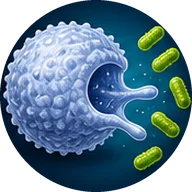
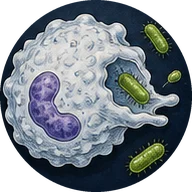
Themapictogrammen: tussenversie (inktlijnen met heldere aquarelkleuren); frisse en klassieke bewaard; knipscript
Claude-Session: https://claude.ai/code/session_01SiyXcNeua6wp9N9nME8PhR

diff --git a/kunst.html b/kunst.html
@@ -40,7 +40,7 @@ a.figlink{display:block;text-decoration:none}
 <div id="lijst"></div>
 <section class="thema">
   <h2>Pictogrammen van de thema's</h2>
-  <p>De ronde medaillons op de hoofdpagina, uitgeknipt uit één vel zodat ze dezelfde stijl hebben (img/kunst/iconen/; Kamiel 21 okt 2026: de eerste, klassieke versie voelde te vergankelijk, dus nu een frissere; de klassieke staat in iconen/klassiek/).</p>
+  <p>De ronde medaillons op de hoofdpagina, uitgeknipt uit één vel zodat ze dezelfde stijl hebben (img/kunst/iconen/; Kamiel 21 okt 2026: de eerste, klassieke versie voelde te vergankelijk, daarna een frisse, glanzende versie (iconen/fris/), en nu een tussenversie: fijne inktlijnen met heldere aquarelkleuren; de klassieke staat in iconen/klassiek/).</p>
   <div id="iconen" style="display:flex;flex-wrap:wrap;gap:14px"></div>
   <p class="lbl">Alle vellen</p><div class="var"></div>
 </section>
@@ -72,7 +72,7 @@ const THEMAS=[
 const fig=(src,cap,cls='',alt='')=>`<a class="figlink" href="${src}"><figure class="${cls}"><img src="${src}" alt="${alt}" loading="lazy"><figcaption>${cap}</figcaption></figure></a>`;
 const ICONEN=['cellen','dna','stofwisseling','voeding','transport','gaswisseling','afweer','regeling','voortplanting','erfelijkheid','evolutie','gedrag','planten','ecologie','milieu','examens'];
 document.getElementById('iconen').innerHTML=ICONEN.map(i=>`<figure style="width:96px;background:none;border:0;text-align:center"><img src="img/kunst/iconen/${i}.webp" alt="Pictogram ${i}" style="width:80px;height:80px;aspect-ratio:1;border-radius:999px;margin:0 auto;border:1px solid var(--goud)"><figcaption style="padding:4px 0 0">${i}</figcaption></figure>`).join('');
-document.querySelector('#iconen').parentElement.querySelector('.var').innerHTML=[1,2,3,4].map(k=>fig(`img/kunst/varianten/iconen-fris-${k}.webp`,`Fris vel ${k}${k===3?' · gebruikt':''}`,k===3?'gekozen':'',`Pictogramvel fris ${k}`)).join('')+[1,2,3,4].map(k=>fig(`img/kunst/varianten/iconen-${k}.webp`,`Klassiek vel ${k}`,'',`Pictogramvel klassiek ${k}`)).join('');
+document.querySelector('#iconen').parentElement.querySelector('.var').innerHTML=[1,2,3,4].map(k=>fig(`img/kunst/varianten/iconen-midden-${k}.webp`,`Tussenvel ${k}${k===3?' · gebruikt':''}`,k===3?'gekozen':'',`Pictogramvel tussen ${k}`)).join('')+[1,2,3,4].map(k=>fig(`img/kunst/varianten/iconen-fris-${k}.webp`,`Fris vel ${k}`,'',`Pictogramvel fris ${k}`)).join('')+[1,2,3,4].map(k=>fig(`img/kunst/varianten/iconen-${k}.webp`,`Klassiek vel ${k}`,'',`Pictogramvel klassiek ${k}`)).join('');
 document.getElementById('proef').innerHTML=['cellen','dna','evolutie'].flatMap(t=>['gravure','kleur'].map(st=>fig(`img/kunst/thema/${t}-${st}.webp`,`${t} · ${st}`,'',`${t} in ${st}stijl`))).join('');
 document.getElementById('lijst').innerHTML=THEMAS.map(t=>`<section class="thema">
   <h2>${t.naam}</h2><p>${t.tekst}</p>

diff --git a/index.html b/index.html
@@ -2773,7 +2773,7 @@ function grondWissel(){
 function home(){
   const nf=id=>HOOFDSTUKKEN[id]?HOOFDSTUKKEN[id].films.length:0;
   const thema=id=>{const h=HOOFDSTUKKEN[id];if(!h)return '';const vwo=/^vwo\b/.test(h.meta||'')?' <span class="vwo-tag mono">vwo</span>':'';
-    return `<li><a href="#${id}">${ICOON.includes(id)?`<span class="tk foto"><img src="img/kunst/iconen/${id}.webp?v=2" alt="" width="64" height="64" decoding="async"></span>`:`<span class="tk">${kunst(id)}</span>`}<b>${esc(h.titel)}${vwo}</b><span class="mat">${esc(telling(id))}</span></a></li>`};
+    return `<li><a href="#${id}">${ICOON.includes(id)?`<span class="tk foto"><img src="img/kunst/iconen/${id}.webp?v=3" alt="" width="64" height="64" decoding="async"></span>`:`<span class="tk">${kunst(id)}</span>`}<b>${esc(h.titel)}${vwo}</b><span class="mat">${esc(telling(id))}</span></a></li>`};
   const OB=[['32A','Van cel tot lichaam','cellen, organen en hoe je lijf werkt','cellen'],['32B','Hoe leven doorgaat','voortplanting, erfelijkheid en evolutie','evolutie'],['32C','Gezond blijven','voeding, slaap, microben en ziek worden','afweer'],['33C','Natuur om je heen','wie woont waar en wie eet wie','ecologie']];
   let out=grondLaag()+`<section class="wrap hero hero-kort">
     <div>

diff --git a/scripts/iconen_knippen.py b/scripts/iconen_knippen.py
@@ -1,0 +1,39 @@
+"""Knipt de 16 ronde themapictogrammen uit een ElevenLabs-vel (raster 6x3 op 16:9, laatste twee vakken leeg).
+Gebruik: python3 scripts/iconen_knippen.py <vel.png> <uitmap> [voorbeeld.png]
+Zoekt per vak de gouden rand, knipt net binnen de rand en maakt er een ronde webp (192 px) van."""
+import sys, os
+import numpy as np
+from PIL import Image, ImageDraw
+IDS = ['cellen','dna','stofwisseling','voeding','transport','gaswisseling','afweer','regeling','voortplanting','erfelijkheid','evolutie','gedrag','planten','ecologie','milieu','examens']
+vel, uit = sys.argv[1], sys.argv[2]
+os.makedirs(uit, exist_ok=True)
+im = Image.open(vel).convert('RGB'); a = np.asarray(im).astype(int); H, W = a.shape[:2]
+R, G, B = a[..., 0], a[..., 1], a[..., 2]
+goud = (R > 140) & (G > 100) & (B < 110) & (R - B > 70)
+def grenzen(p, n, lengte):
+    # n vakken: zoek tussen de vakken het minimum van het goudprofiel
+    stap = lengte / n; g = [0]
+    for k in range(1, n):
+        lo, hi = int(stap * k - stap * .12), int(stap * k + stap * .12)
+        v = p[lo:hi]; laag = np.nonzero(v <= v.min() + 1)[0]
+        g.append(lo + int(laag.mean()))  # midden van de opening tussen twee cirkels
+    return g + [lengte]
+kol = grenzen(goud.sum(0), 6, W); rij = grenzen(goud.sum(1), 3, H)
+blad = Image.new('RGB', (8 * 110, 2 * 110), 'white')
+for k, i in enumerate(IDS):
+    c0, c1 = kol[k % 6], kol[k % 6 + 1]; r0, r1 = rij[k // 6], rij[k // 6 + 1]
+    # cirkelfit (kleinste kwadraten) op de goudpixels in en rond het vak
+    m_ = 25; y0, y1 = max(0, r0 - m_), min(H, r1 + m_); x0, x1 = max(0, c0 - m_), min(W, c1 + m_)
+    Y, X = np.nonzero(goud[y0:y1, x0:x1]); X = X + x0; Y = Y + y0
+    gx, gy = (c0 + c1) / 2, (r0 + r1) / 2; R0 = min(c1 - c0, r1 - r0) / 2
+    for _ in range(6):  # alleen punten dicht bij de huidige ring meenemen, dan opnieuw fitten
+        d = np.hypot(X - gx, Y - gy); sel = np.abs(d - R0) < max(8, R0 * .12)
+        A = np.c_[2 * X[sel], 2 * Y[sel], np.ones(sel.sum())]; b = X[sel] ** 2 + Y[sel] ** 2
+        gx, gy, c = np.linalg.lstsq(A, b, rcond=None)[0]; R0 = np.sqrt(c + gx ** 2 + gy ** 2)
+    cx, cy, rr = gx, gy, R0 - 10
+    t = im.crop((round(cx - rr), round(cy - rr), round(cx + rr), round(cy + rr))).resize((192, 192), Image.LANCZOS)
+    m = Image.new('L', (768, 768), 0); ImageDraw.Draw(m).ellipse([0, 0, 767, 767], fill=255); m = m.resize((192, 192), Image.LANCZOS)
+    t.putalpha(m); t.save(os.path.join(uit, i + '.webp'), quality=86)
+    k2 = t.resize((100, 100)); blad.paste(k2, ((k % 8) * 110 + 5, (k // 8) * 110 + 5), k2)
+if len(sys.argv) > 3: blad.save(sys.argv[3])
+print('kolommen', kol, 'rijen', rij)

diff --git a/CLAUDE.md b/CLAUDE.md
@@ -1,6 +1,6 @@
 # Biologie bij Kamiel — werkafspraken voor Claude
 
-Statische site (GitHub Pages, branch `main`, map `/`): `index.html` is de nieuwe site (sinds 12 okt 2026; de inhoud staat als JSON in `HOOFDSTUKKEN` en `NIVEAUS` bovenin het script, hash-routes `#<hoofdstuk>`, `#films`, `#tools`, `#pta`). Sinds 20 okt 2026 is de hoofdpagina (`#home`, menu 'Thema's') opgebouwd uit drie vlakken los van het PTA: 'Van molecuul tot planeet' (alle thema's, gegroepeerd in `BASIS` in het script), 'Eerste ontdekkingen' (onderbouw, uit `NIVEAUS.onderbouw`) en 'Een kijkje vooruit' (Wat word jij?, richtingen in `VERDER` → `vervolg.html#<cluster>`); de oude hoofdpagina per PTA-onderdeel staat onder het tabblad 'PTA Agora' (`#pta`, functie `pta()`). Een nieuw thema zet je ook in `BASIS`. Achtergrond hoofdpagina (Kamiel 20 okt 2026: kunst en biologie gecombineerd, niet per se de thema's): vier procedureel getekende bio-art-platen in `KUNSTPLATEN` (Groei: zonnebloemspiraal en varens · Onder de microscoop: radiolariën en diatomeeën · Netwerk: schimmeldraden · In zee: kwallen en nautilus) plus beeldplaten in `FOTOPLATEN`, met ElevenLabs gemaakte nieuwe versies van dezelfde vier (21 okt 2026: `img/kunst/plankton.webp`, `groei.webp`, `netwerk.webp`, `zee.webp`, en als nieuwe thema's zonder oude tekening `oerbos.webp`, `mieren.webp` (mierenkolonie) en `kolibrie.webp` (de kolibrie is een videoloop van 5 s, `kolibrie.webm` + `.mp4`, poster = `kolibrie.webp`; derde veld in `FOTOPLATEN` = video, speelt alleen als hij zichtbaar is via `grondVideo()`, niet bij 'minder beweging'; seedance-video kostte ±14.000 credits. Vierde veld `{voor:[cx,cy,rx,ry]}` (beeldfracties) tekent dat deel van de plaat via canvas `#kunstvoor` (`voorLus`, mix-blend lighten, zachte ellips) bovenop de titelkaart en het eerste vlak eronder: Kamiel wilde de kolibrie vóór de kaart). Kamiel 21 okt 2026: de getekende platen staan in de donkere stand even uit (`TEKENPLATEN_DONKER=false`, klasse `zonder-tekening`); in de lichte stand draaien ze nog, want de beelden zijn donker; De ronde themapictogrammen in de themategels van de hoofdpagina zijn sinds 21 okt 2026 ElevenLabs-medaillons (`img/kunst/iconen/<id>.webp`, uitgeknipt uit één vel zodat de stijl gelijk is; Kamiel vond de eerste klassieke versie te 'vergankelijk' en wilde iets frissers: nu de frisse versie uit `varianten/iconen-fris-3.webp` (raster 6×3, zodat de cirkels in 16:9 echt rond blijven; een 4×4-raster werd ovaal), de klassieke staat in `iconen/klassiek/` en `varianten/iconen-1..4.webp`), lijst `ICOON` in index.html (niet in de lijst = oude lijntekening uit `KUNST`; elders op de site blijven de lijntekeningen). Themaplaten als ElevenLabs-gravure voor alle 16 thema's (Kamiel 21 okt 2026 koos de gravurestijl, net als de wolf; de procedurele platen in `T.<id>` blijven als reserve staan): `img/themakunst/<id>-gravure.webp`, ingebouwd via `GRAVURE` in js/themakunst.js (`[bestand, x, y, breedte]` in het 1600×1000-vlak, standaard 640, 215, 900; zachte radiale maskerrand zodat de iets lichtere navy van het beeld niet als rechthoek opvalt; hoofdfiguur leeg, zonder uitsparing). De kleurproeven staan nog in `img/kunst/thema/` en op kunst.html; Haeckel-achtig, donker navy, rustig vlak links-midden; alleen in de donkere stand, de roulatie slaat verborgen platen over). Kamiel wil oud en nieuw voorlopig náást elkaar in de roulatie om te vergelijken. Alle achtergronden worden bewaard in `img/kunst/`: `oud/` = de getekende platen als SVG (rustig en intens, donkere kleuren; opnieuw te maken uit `KUNSTPLATEN`), `varianten/` = alle ElevenLabs-varianten (`<thema>-1..4.webp`; van plankton alleen de gekozen versie), ElevenLabs-flow https://elevenlabs.io/app/flows/CJlOchvhkxSLAAT5zVTX. Vergelijkpagina: `kunst.html` (niet gelinkt, noindex; lijst `THEMAS` in het script); zet een nieuwe achtergrond daar ook bij, vaste laag over het hele scherm die elke 14 s overvloeit (`grondWissel`); geen korrel. Drie standen via de knop naast licht/donker (`#kunstknop`, alleen op de hoofdpagina; localStorage `kunst`, ook `?kunst=`): `rustig` (standaard; de kunst schemert licht door de vlakken), `intens` (veel meer en vollere kunst met kleurwolken, dikkere lijnen, titel op matglas) en `uit`. Body krijgt `data-kunst`. Themapagina's (Kamiel 20 okt 2026: intense kunst, dikker en kleurrijker, geïnspireerd door het thema zelf) krijgen een eigen plaat uit `js/themakunst.js`: `THEMAKUNST[id]()` = achtergrond (vaste laag, met een uitgespaarde ellips rechtsboven) en `THEMAHELD[id]()` = hoofdfiguur groot in de kop (bv. een eigen schets van Charles Darwin bij Evolutie, hart bij Transport, neuron bij Regeling). Dezelfde kunstknop geldt (rustig = halve sterkte, intens = vol, uit = gewone pagina met het oude embleem); kop en filmlijst staan dan op matglas. Na een wijziging aan themakunst.js de versie `?v=` in index.html bijwerken (md5, 8 tekens). Een nieuw thema krijgt ook een plaat en een hoofdfiguur. Stijl (Kamiel 20 okt 2026, na de eerste versie): realistischer en serieuzer, als oude natuurplaten en gravures: fijne inktlijnen (var(--text)/--text2), arcering en stippels in plaats van vlakke kleur (patterns `tk-arc`, `tk-kruis`, `tk-stip`), kleur alleen waar het iets toevoegt (per thema in `ACCENT`, bv. rood bloed bij Transport, groene erwten bij Erfelijkheid); Darwin als zwart-witte gravure in een ovaal medaillon. Ecologie (Kamiel 21 okt 2026: 'een majestueuze wolf in een donker woud, als een echt beest'): `wolf()` = silhouet uit punten (Catmull-Rom) met duizenden vachtstreken per lichaamsdeel (donker zadel, lichte buik, halskraag, donkere staartpunt), barnsteen ogen, vaste grijstinten zodat hij in licht en donker hetzelfde is; `woud()` = vaste nachtscène (maan, sterren, drie rijen sparren, mist). Sinds 21 okt 2026 (Kamiel: 'strakke versie uitproberen') is de Ecologie-plaat een met ElevenLabs gemaakte gravure (strakke lijnstijl, huilende wolf, maan, Veluwe-achtige bosrand) in `img/themakunst/ecologie-wolf.webp`, rechts geplaatst met zacht uitlopende randen op navy (sinds 21 okt middag kleiner en verder rechts: x 830, y 215, b 780, zodat maan en wolf naast de titelkaart en onder de menubalk vallen); de hoofdfiguur is daarom leeg. `woud()` en `wolf()` staan nog in themakunst.js. Volledige scènes staan in `THEMAKUNST_ZONDERGAT` (geen uitsparing achter de hoofdfiguur). Tabblad 'Agora onderbouw' (`#onderbouw`, functie `onderbouwPagina()`) toont de kerndoelen als kaarten; op de hoofdpagina staan géén kerndoelcodes (Kamiel 20 okt 2026), het onderbouwvlak gebruikt de lijst `OB`. Hoofdmenu (index, challenges, vervolg; houd ze gelijk): Thema's · Films · Tools · Agora (uitklapmenu `details.menu`: PTA Agora, Agora onderbouw, Jaarplanner, PTA-route, Examenatlas, Challenges) · Wat word jij? · Klas live, op één regel. 'Klas live' is sinds 20 okt 2026 de naam voor de werksessies (`sessie/`) op alles wat leerlingen en docent zien; in code en bestandsnamen heet het nog sessie/werksessie. De havo/vwo-knop staat alleen nog op de PTA Agora-pagina zelf, niet in de kopbalk. De oude site staat als `oud.html` en wordt niet meer bijgewerkt; `nieuw/` stuurt door naar de hoofdpagina. Films in `films/<hoofdstuk>/`, tools in `tools/`, `pta-route.html`. `jaarplanner.html` (sinds 21 okt 2026 op de site, Agora-menu) is de jaarplanner 2026-2027 week voor week (tabs havo 4, havo 5, vwo 4+5, vwo 6, PTA-route; `#havo4` enz.), overgenomen uit de claude.ai-artifact https://claude.ai/artifact/W5ueD4LEwp5Dpj8kKWqb5M met `SITE='.'` zodat filmlinks relatief zijn; data in `PLANNERS` bovenin het script. Pas een wijziging aan de planner voortaan hier aan (en eventueel ook in de artifact). `examenatlas.html` is de Examenatlas (CE biologie 2018–2026, ingang per PTA-subonderdeel; data per niveau in `examenatlas/havo.json` en `examenatlas/vwo.json`, gemaakt met `scripts/examenatlas_bouwen.py` uit de oude claude.ai-atlas; koppeling onderwerp → subonderdeel via de methodehoofdstukken, handmatige correcties in `OVERRIDE`; de echte vragen en antwoorden staan als webp-uitsneden in `examenatlas/img/<niveau>/<examen>/` (`<nr>a.webp` = vraag met info sinds de vorige vraag, `a<nr>a.webp` = beoordelingsmodel), gemaakt met `scripts/examenknip/knip.py`, `knip_c.py` en `knip_u.py` (`u<nr>a.webp` = deel van de uitwerkbijlage) uit de pdf's van Kamiel en gekoppeld met `scripts/examenatlas_vragen.py` — draai dat opnieuw na `examenatlas_bouwen.py`). `challenges.html` is een aparte pagina met biologische challenges (hoofdvraag + subvragen); een nieuwe challenge = blok in `CHALLENGES` plus een lijntekening in `KUNST` (sleutel = id), bovenin het script van die pagina. Elke subvraag klapt uit met hulp uit `js/challenges-hulp.js` (`HULP['<id>-<nr>']` = `{c: context, h: 3 hints van algemeen naar concreet (nooit het antwoord), z: zoektermen, k: 'je bent klaar als'-criteria, let: optionele veiligheidsnoot}`); de leerling ziet eerst context + 'denk eerst zelf', hints en zoektermen pas op verzoek, één voor één (Kamiel 20 okt 2026: uitdaging niet weggeven). Een nieuwe challenge krijgt dus ook vier `HULP`-blokken; deeplink `challenges.html#<id>-<nr>` opent die subvraag. `vervolg.html` ('Wat word jij?', studie en beroep) toont vervolgopleidingen per richting (`CLUSTERS`) en gebied (`GEBIEDEN`); per gebied staan de extra films voor dat vak, buiten het PTA (`basis`; een geplande film is een object `{titel, vraag, opbouw, nieuw, bouwt, advies, was, id}` en verschijnt als uitklapbare 'komt nog'-rij met startvraag, hoofdstukken, wat hij toevoegt en de PTA-films waarop hij voortbouwt; dezelfde `id` in meerdere gebieden = één gedeelde film; `schrappen:true` + `reden` = voorstel om te schrappen, alleen zichtbaar met `?k=1`; de films mogen buiten de biologie gaan en laten zien wat je in dat vak echt doet: methoden, gesprekken, techniek, beleid; een af onderwerp wordt `[titel, href]`; zulke films staan in `films/vervolg/`, duur in `films/vervolg/films.json`), en apart daarvan bestaande films uit de lesstof (`pta`: lijst met hrefs, op de pagina 'Al op de site · uit de lesstof (PTA)'; dit blok staat sinds 20 okt 2026 op Kamiels verzoek uit via `TOON_PTA=false` in vervolg.html, de data blijft staan; ook het blok 'De gedeelde kern' (`KERN`) staat uit via `TOON_KERN=false`: Kamiel vindt dat leerlingen eerst het hele curriculum doen voordat ze deze films kijken). Titels en hoofdstuk van die films komen uit `FILMS` in vervolg.html: draai `python3 scripts/vervolg_films.py` na het toevoegen of hernoemen van films (meldt ook dode hrefs). Stap 4 'Opleidingen' (sinds 20 okt 2026, eerst alleen psychologie als voorbeeld): veld `opleidingen` per gebied `{gecontroleerd, jaar, routes:[{niveau, naam, waar, duur, toelating, selectie, link}], let, doorstroom, kennismaken, meer:[[tekst,url]]}`, getoond door `opleidingenBlok`. De balk met de 4 stappen bovenaan (`STAPPEN`) is sinds 20 okt 2026 aanklikbaar en wisselt alle gebiedskaarten tegelijk (variabele `stap`, link `?stap=4`); Stap 1 (de films) is standaard, stap 2/3 en een stap 4 zonder data tonen een 'komt later'-tekst. Kamiel wilde géén tabrij per kaart; de balk (`.stapbalk`) blijft bij scrollen onder de menubalk staan en wordt dan compact (klasse `vast`, functie `plak`; op de telefoon één regel met korte namen `kort`); instellingen dicht bij huis eerst (Radboud, HAN, ROC Nijmegen, Wageningen), feiten opzoeken en datum bijwerken. Films voor 'Wat word jij?' bouw je volgens `films/vervolg/BOUWEN.md` (werkmap `hw/` buiten de repo opzetten, API, bouwen, in de repo zetten); werkwijze per gebied: eerst een kritische check welke geplande films echt iets toevoegen, Kamiel keurt goed, dan alles bouwen. Stap 2 'Een dag uit het werk' volgt (pilot psychologie); stap 3 'Praktijkopdracht' blijft bewust 'later' tot de tools beter zijn, ideeën per gebied in `films/vervolg/STAP3-WENSEN.md`.
+Statische site (GitHub Pages, branch `main`, map `/`): `index.html` is de nieuwe site (sinds 12 okt 2026; de inhoud staat als JSON in `HOOFDSTUKKEN` en `NIVEAUS` bovenin het script, hash-routes `#<hoofdstuk>`, `#films`, `#tools`, `#pta`). Sinds 20 okt 2026 is de hoofdpagina (`#home`, menu 'Thema's') opgebouwd uit drie vlakken los van het PTA: 'Van molecuul tot planeet' (alle thema's, gegroepeerd in `BASIS` in het script), 'Eerste ontdekkingen' (onderbouw, uit `NIVEAUS.onderbouw`) en 'Een kijkje vooruit' (Wat word jij?, richtingen in `VERDER` → `vervolg.html#<cluster>`); de oude hoofdpagina per PTA-onderdeel staat onder het tabblad 'PTA Agora' (`#pta`, functie `pta()`). Een nieuw thema zet je ook in `BASIS`. Achtergrond hoofdpagina (Kamiel 20 okt 2026: kunst en biologie gecombineerd, niet per se de thema's): vier procedureel getekende bio-art-platen in `KUNSTPLATEN` (Groei: zonnebloemspiraal en varens · Onder de microscoop: radiolariën en diatomeeën · Netwerk: schimmeldraden · In zee: kwallen en nautilus) plus beeldplaten in `FOTOPLATEN`, met ElevenLabs gemaakte nieuwe versies van dezelfde vier (21 okt 2026: `img/kunst/plankton.webp`, `groei.webp`, `netwerk.webp`, `zee.webp`, en als nieuwe thema's zonder oude tekening `oerbos.webp`, `mieren.webp` (mierenkolonie) en `kolibrie.webp` (de kolibrie is een videoloop van 5 s, `kolibrie.webm` + `.mp4`, poster = `kolibrie.webp`; derde veld in `FOTOPLATEN` = video, speelt alleen als hij zichtbaar is via `grondVideo()`, niet bij 'minder beweging'; seedance-video kostte ±14.000 credits. Vierde veld `{voor:[cx,cy,rx,ry]}` (beeldfracties) tekent dat deel van de plaat via canvas `#kunstvoor` (`voorLus`, mix-blend lighten, zachte ellips) bovenop de titelkaart en het eerste vlak eronder: Kamiel wilde de kolibrie vóór de kaart). Kamiel 21 okt 2026: de getekende platen staan in de donkere stand even uit (`TEKENPLATEN_DONKER=false`, klasse `zonder-tekening`); in de lichte stand draaien ze nog, want de beelden zijn donker; De ronde themapictogrammen in de themategels van de hoofdpagina zijn sinds 21 okt 2026 ElevenLabs-medaillons (`img/kunst/iconen/<id>.webp`, uitgeknipt uit één vel zodat de stijl gelijk is; Kamiel vond de eerste klassieke versie te 'vergankelijk' en wilde iets frissers: daarna een frisse glanzende versie (`iconen/fris/`, `varianten/iconen-fris-*.webp`), en Kamiel wilde 'qua frisheid een beetje tussen deze en de vorige': nu de tussenversie (fijne inktlijnen + heldere aquarelkleuren, niet vergeeld en niet glanzend/3D) uit `varianten/iconen-midden-3.webp`; vel altijd als raster 6×3 laten maken, zodat de cirkels in 16:9 echt rond blijven (4×4 werd ovaal); uitknippen met `python3 scripts/iconen_knippen.py <vel.png> img/kunst/iconen <voorbeeld.png>` (cirkelfit op de gouden rand); de klassieke staat in `iconen/klassiek/` en `varianten/iconen-1..4.webp`; na het vervangen de `?v=` bij de pictogrammen in index.html ophogen), lijst `ICOON` in index.html (niet in de lijst = oude lijntekening uit `KUNST`; elders op de site blijven de lijntekeningen). Themaplaten als ElevenLabs-gravure voor alle 16 thema's (Kamiel 21 okt 2026 koos de gravurestijl, net als de wolf; de procedurele platen in `T.<id>` blijven als reserve staan): `img/themakunst/<id>-gravure.webp`, ingebouwd via `GRAVURE` in js/themakunst.js (`[bestand, x, y, breedte]` in het 1600×1000-vlak, standaard 640, 215, 900; zachte radiale maskerrand zodat de iets lichtere navy van het beeld niet als rechthoek opvalt; hoofdfiguur leeg, zonder uitsparing). De kleurproeven staan nog in `img/kunst/thema/` en op kunst.html; Haeckel-achtig, donker navy, rustig vlak links-midden; alleen in de donkere stand, de roulatie slaat verborgen platen over). Kamiel wil oud en nieuw voorlopig náást elkaar in de roulatie om te vergelijken. Alle achtergronden worden bewaard in `img/kunst/`: `oud/` = de getekende platen als SVG (rustig en intens, donkere kleuren; opnieuw te maken uit `KUNSTPLATEN`), `varianten/` = alle ElevenLabs-varianten (`<thema>-1..4.webp`; van plankton alleen de gekozen versie), ElevenLabs-flow https://elevenlabs.io/app/flows/CJlOchvhkxSLAAT5zVTX. Vergelijkpagina: `kunst.html` (niet gelinkt, noindex; lijst `THEMAS` in het script); zet een nieuwe achtergrond daar ook bij, vaste laag over het hele scherm die elke 14 s overvloeit (`grondWissel`); geen korrel. Drie standen via de knop naast licht/donker (`#kunstknop`, alleen op de hoofdpagina; localStorage `kunst`, ook `?kunst=`): `rustig` (standaard; de kunst schemert licht door de vlakken), `intens` (veel meer en vollere kunst met kleurwolken, dikkere lijnen, titel op matglas) en `uit`. Body krijgt `data-kunst`. Themapagina's (Kamiel 20 okt 2026: intense kunst, dikker en kleurrijker, geïnspireerd door het thema zelf) krijgen een eigen plaat uit `js/themakunst.js`: `THEMAKUNST[id]()` = achtergrond (vaste laag, met een uitgespaarde ellips rechtsboven) en `THEMAHELD[id]()` = hoofdfiguur groot in de kop (bv. een eigen schets van Charles Darwin bij Evolutie, hart bij Transport, neuron bij Regeling). Dezelfde kunstknop geldt (rustig = halve sterkte, intens = vol, uit = gewone pagina met het oude embleem); kop en filmlijst staan dan op matglas. Na een wijziging aan themakunst.js de versie `?v=` in index.html bijwerken (md5, 8 tekens). Een nieuw thema krijgt ook een plaat en een hoofdfiguur. Stijl (Kamiel 20 okt 2026, na de eerste versie): realistischer en serieuzer, als oude natuurplaten en gravures: fijne inktlijnen (var(--text)/--text2), arcering en stippels in plaats van vlakke kleur (patterns `tk-arc`, `tk-kruis`, `tk-stip`), kleur alleen waar het iets toevoegt (per thema in `ACCENT`, bv. rood bloed bij Transport, groene erwten bij Erfelijkheid); Darwin als zwart-witte gravure in een ovaal medaillon. Ecologie (Kamiel 21 okt 2026: 'een majestueuze wolf in een donker woud, als een echt beest'): `wolf()` = silhouet uit punten (Catmull-Rom) met duizenden vachtstreken per lichaamsdeel (donker zadel, lichte buik, halskraag, donkere staartpunt), barnsteen ogen, vaste grijstinten zodat hij in licht en donker hetzelfde is; `woud()` = vaste nachtscène (maan, sterren, drie rijen sparren, mist). Sinds 21 okt 2026 (Kamiel: 'strakke versie uitproberen') is de Ecologie-plaat een met ElevenLabs gemaakte gravure (strakke lijnstijl, huilende wolf, maan, Veluwe-achtige bosrand) in `img/themakunst/ecologie-wolf.webp`, rechts geplaatst met zacht uitlopende randen op navy (sinds 21 okt middag kleiner en verder rechts: x 830, y 215, b 780, zodat maan en wolf naast de titelkaart en onder de menubalk vallen); de hoofdfiguur is daarom leeg. `woud()` en `wolf()` staan nog in themakunst.js. Volledige scènes staan in `THEMAKUNST_ZONDERGAT` (geen uitsparing achter de hoofdfiguur). Tabblad 'Agora onderbouw' (`#onderbouw`, functie `onderbouwPagina()`) toont de kerndoelen als kaarten; op de hoofdpagina staan géén kerndoelcodes (Kamiel 20 okt 2026), het onderbouwvlak gebruikt de lijst `OB`. Hoofdmenu (index, challenges, vervolg; houd ze gelijk): Thema's · Films · Tools · Agora (uitklapmenu `details.menu`: PTA Agora, Agora onderbouw, Jaarplanner, PTA-route, Examenatlas, Challenges) · Wat word jij? · Klas live, op één regel. 'Klas live' is sinds 20 okt 2026 de naam voor de werksessies (`sessie/`) op alles wat leerlingen en docent zien; in code en bestandsnamen heet het nog sessie/werksessie. De havo/vwo-knop staat alleen nog op de PTA Agora-pagina zelf, niet in de kopbalk. De oude site staat als `oud.html` en wordt niet meer bijgewerkt; `nieuw/` stuurt door naar de hoofdpagina. Films in `films/<hoofdstuk>/`, tools in `tools/`, `pta-route.html`. `jaarplanner.html` (sinds 21 okt 2026 op de site, Agora-menu) is de jaarplanner 2026-2027 week voor week (tabs havo 4, havo 5, vwo 4+5, vwo 6, PTA-route; `#havo4` enz.), overgenomen uit de claude.ai-artifact https://claude.ai/artifact/W5ueD4LEwp5Dpj8kKWqb5M met `SITE='.'` zodat filmlinks relatief zijn; data in `PLANNERS` bovenin het script. Pas een wijziging aan de planner voortaan hier aan (en eventueel ook in de artifact). `examenatlas.html` is de Examenatlas (CE biologie 2018–2026, ingang per PTA-subonderdeel; data per niveau in `examenatlas/havo.json` en `examenatlas/vwo.json`, gemaakt met `scripts/examenatlas_bouwen.py` uit de oude claude.ai-atlas; koppeling onderwerp → subonderdeel via de methodehoofdstukken, handmatige correcties in `OVERRIDE`; de echte vragen en antwoorden staan als webp-uitsneden in `examenatlas/img/<niveau>/<examen>/` (`<nr>a.webp` = vraag met info sinds de vorige vraag, `a<nr>a.webp` = beoordelingsmodel), gemaakt met `scripts/examenknip/knip.py`, `knip_c.py` en `knip_u.py` (`u<nr>a.webp` = deel van de uitwerkbijlage) uit de pdf's van Kamiel en gekoppeld met `scripts/examenatlas_vragen.py` — draai dat opnieuw na `examenatlas_bouwen.py`). `challenges.html` is een aparte pagina met biologische challenges (hoofdvraag + subvragen); een nieuwe challenge = blok in `CHALLENGES` plus een lijntekening in `KUNST` (sleutel = id), bovenin het script van die pagina. Elke subvraag klapt uit met hulp uit `js/challenges-hulp.js` (`HULP['<id>-<nr>']` = `{c: context, h: 3 hints van algemeen naar concreet (nooit het antwoord), z: zoektermen, k: 'je bent klaar als'-criteria, let: optionele veiligheidsnoot}`); de leerling ziet eerst context + 'denk eerst zelf', hints en zoektermen pas op verzoek, één voor één (Kamiel 20 okt 2026: uitdaging niet weggeven). Een nieuwe challenge krijgt dus ook vier `HULP`-blokken; deeplink `challenges.html#<id>-<nr>` opent die subvraag. `vervolg.html` ('Wat word jij?', studie en beroep) toont vervolgopleidingen per richting (`CLUSTERS`) en gebied (`GEBIEDEN`); per gebied staan de extra films voor dat vak, buiten het PTA (`basis`; een geplande film is een object `{titel, vraag, opbouw, nieuw, bouwt, advies, was, id}` en verschijnt als uitklapbare 'komt nog'-rij met startvraag, hoofdstukken, wat hij toevoegt en de PTA-films waarop hij voortbouwt; dezelfde `id` in meerdere gebieden = één gedeelde film; `schrappen:true` + `reden` = voorstel om te schrappen, alleen zichtbaar met `?k=1`; de films mogen buiten de biologie gaan en laten zien wat je in dat vak echt doet: methoden, gesprekken, techniek, beleid; een af onderwerp wordt `[titel, href]`; zulke films staan in `films/vervolg/`, duur in `films/vervolg/films.json`), en apart daarvan bestaande films uit de lesstof (`pta`: lijst met hrefs, op de pagina 'Al op de site · uit de lesstof (PTA)'; dit blok staat sinds 20 okt 2026 op Kamiels verzoek uit via `TOON_PTA=false` in vervolg.html, de data blijft staan; ook het blok 'De gedeelde kern' (`KERN`) staat uit via `TOON_KERN=false`: Kamiel vindt dat leerlingen eerst het hele curriculum doen voordat ze deze films kijken). Titels en hoofdstuk van die films komen uit `FILMS` in vervolg.html: draai `python3 scripts/vervolg_films.py` na het toevoegen of hernoemen van films (meldt ook dode hrefs). Stap 4 'Opleidingen' (sinds 20 okt 2026, eerst alleen psychologie als voorbeeld): veld `opleidingen` per gebied `{gecontroleerd, jaar, routes:[{niveau, naam, waar, duur, toelating, selectie, link}], let, doorstroom, kennismaken, meer:[[tekst,url]]}`, getoond door `opleidingenBlok`. De balk met de 4 stappen bovenaan (`STAPPEN`) is sinds 20 okt 2026 aanklikbaar en wisselt alle gebiedskaarten tegelijk (variabele `stap`, link `?stap=4`); Stap 1 (de films) is standaard, stap 2/3 en een stap 4 zonder data tonen een 'komt later'-tekst. Kamiel wilde géén tabrij per kaart; de balk (`.stapbalk`) blijft bij scrollen onder de menubalk staan en wordt dan compact (klasse `vast`, functie `plak`; op de telefoon één regel met korte namen `kort`); instellingen dicht bij huis eerst (Radboud, HAN, ROC Nijmegen, Wageningen), feiten opzoeken en datum bijwerken. Films voor 'Wat word jij?' bouw je volgens `films/vervolg/BOUWEN.md` (werkmap `hw/` buiten de repo opzetten, API, bouwen, in de repo zetten); werkwijze per gebied: eerst een kritische check welke geplande films echt iets toevoegen, Kamiel keurt goed, dan alles bouwen. Stap 2 'Een dag uit het werk' volgt (pilot psychologie); stap 3 'Praktijkopdracht' blijft bewust 'later' tot de tools beter zijn, ideeën per gebied in `films/vervolg/STAP3-WENSEN.md`.
 
 ## Elke nieuwe of aangepaste film krijgt een bronmap
 
